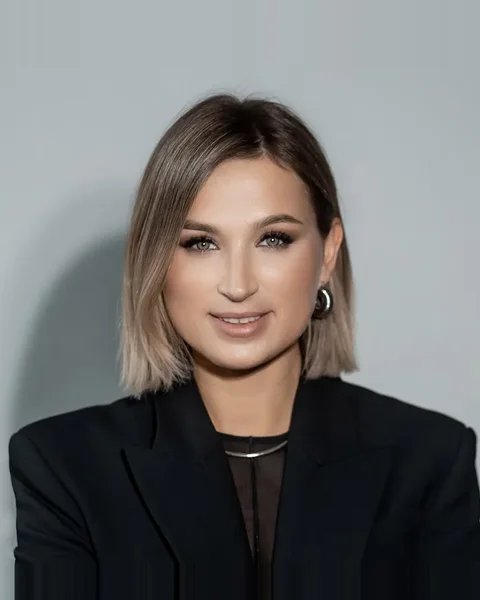
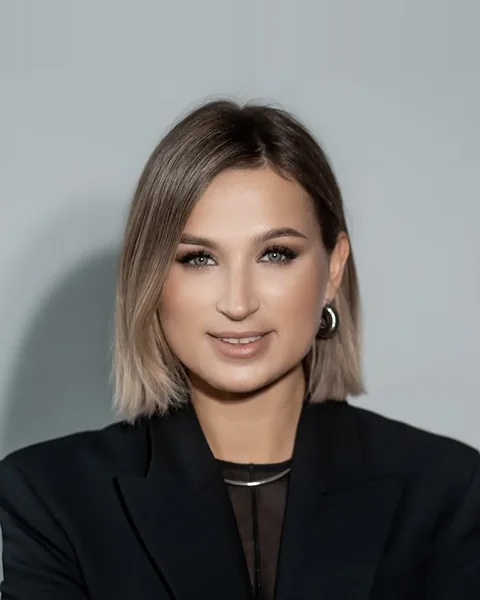
v33: убрал растяжку края внизу кадров спикеров — низ и бока больше не подкладываются, кадр режется по исходнику

Changed region(s): [[0.0, 0.15, 1.0, 1.0], [0.6562, 0.24, 0.6875, 0.27], [0.0312, 0.6, 0.0625, 0.63]]

diff --git a/src33/components/Speakers5.jsx b/src33/components/Speakers5.jsx
@@ -46,7 +46,7 @@ export default function Speakers5() {
               <div className="speaker-card3 aspect-[4/5] relative overflow-hidden">
                 {photo ? (
                   <img
-                    src={`../speakers/${photo}.webp?v=5`}
+                    src={`../speakers/${photo}.webp?v=6`}
                     alt={name}
                     loading="lazy"
                     className="absolute inset-0 w-full h-full object-cover transition-transform duration-700 ease-out group-hover:scale-[1.045]"
